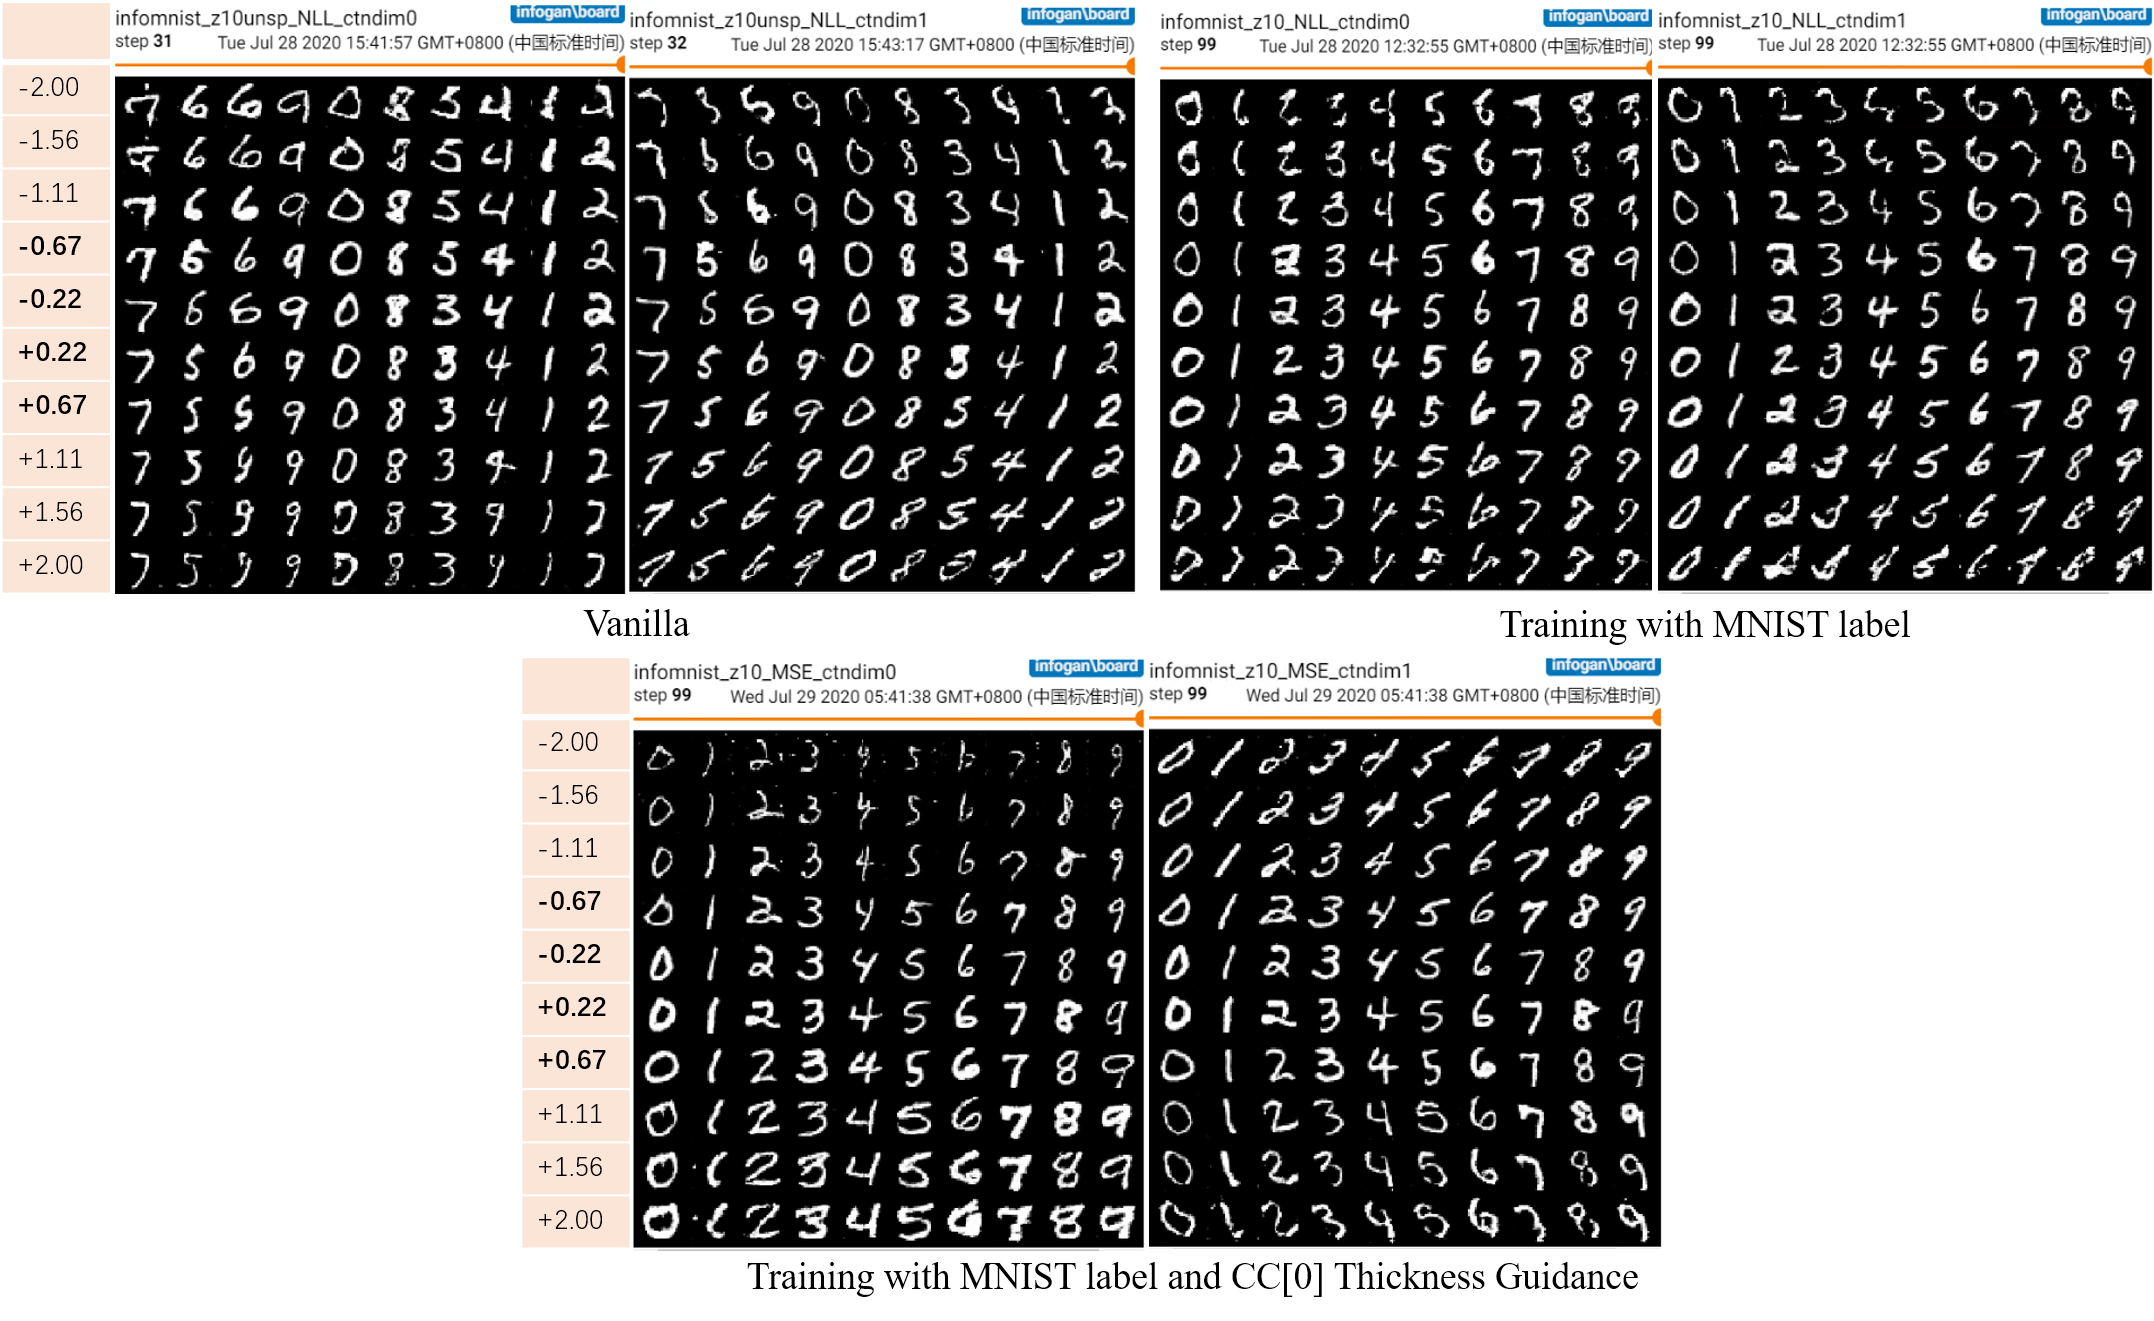
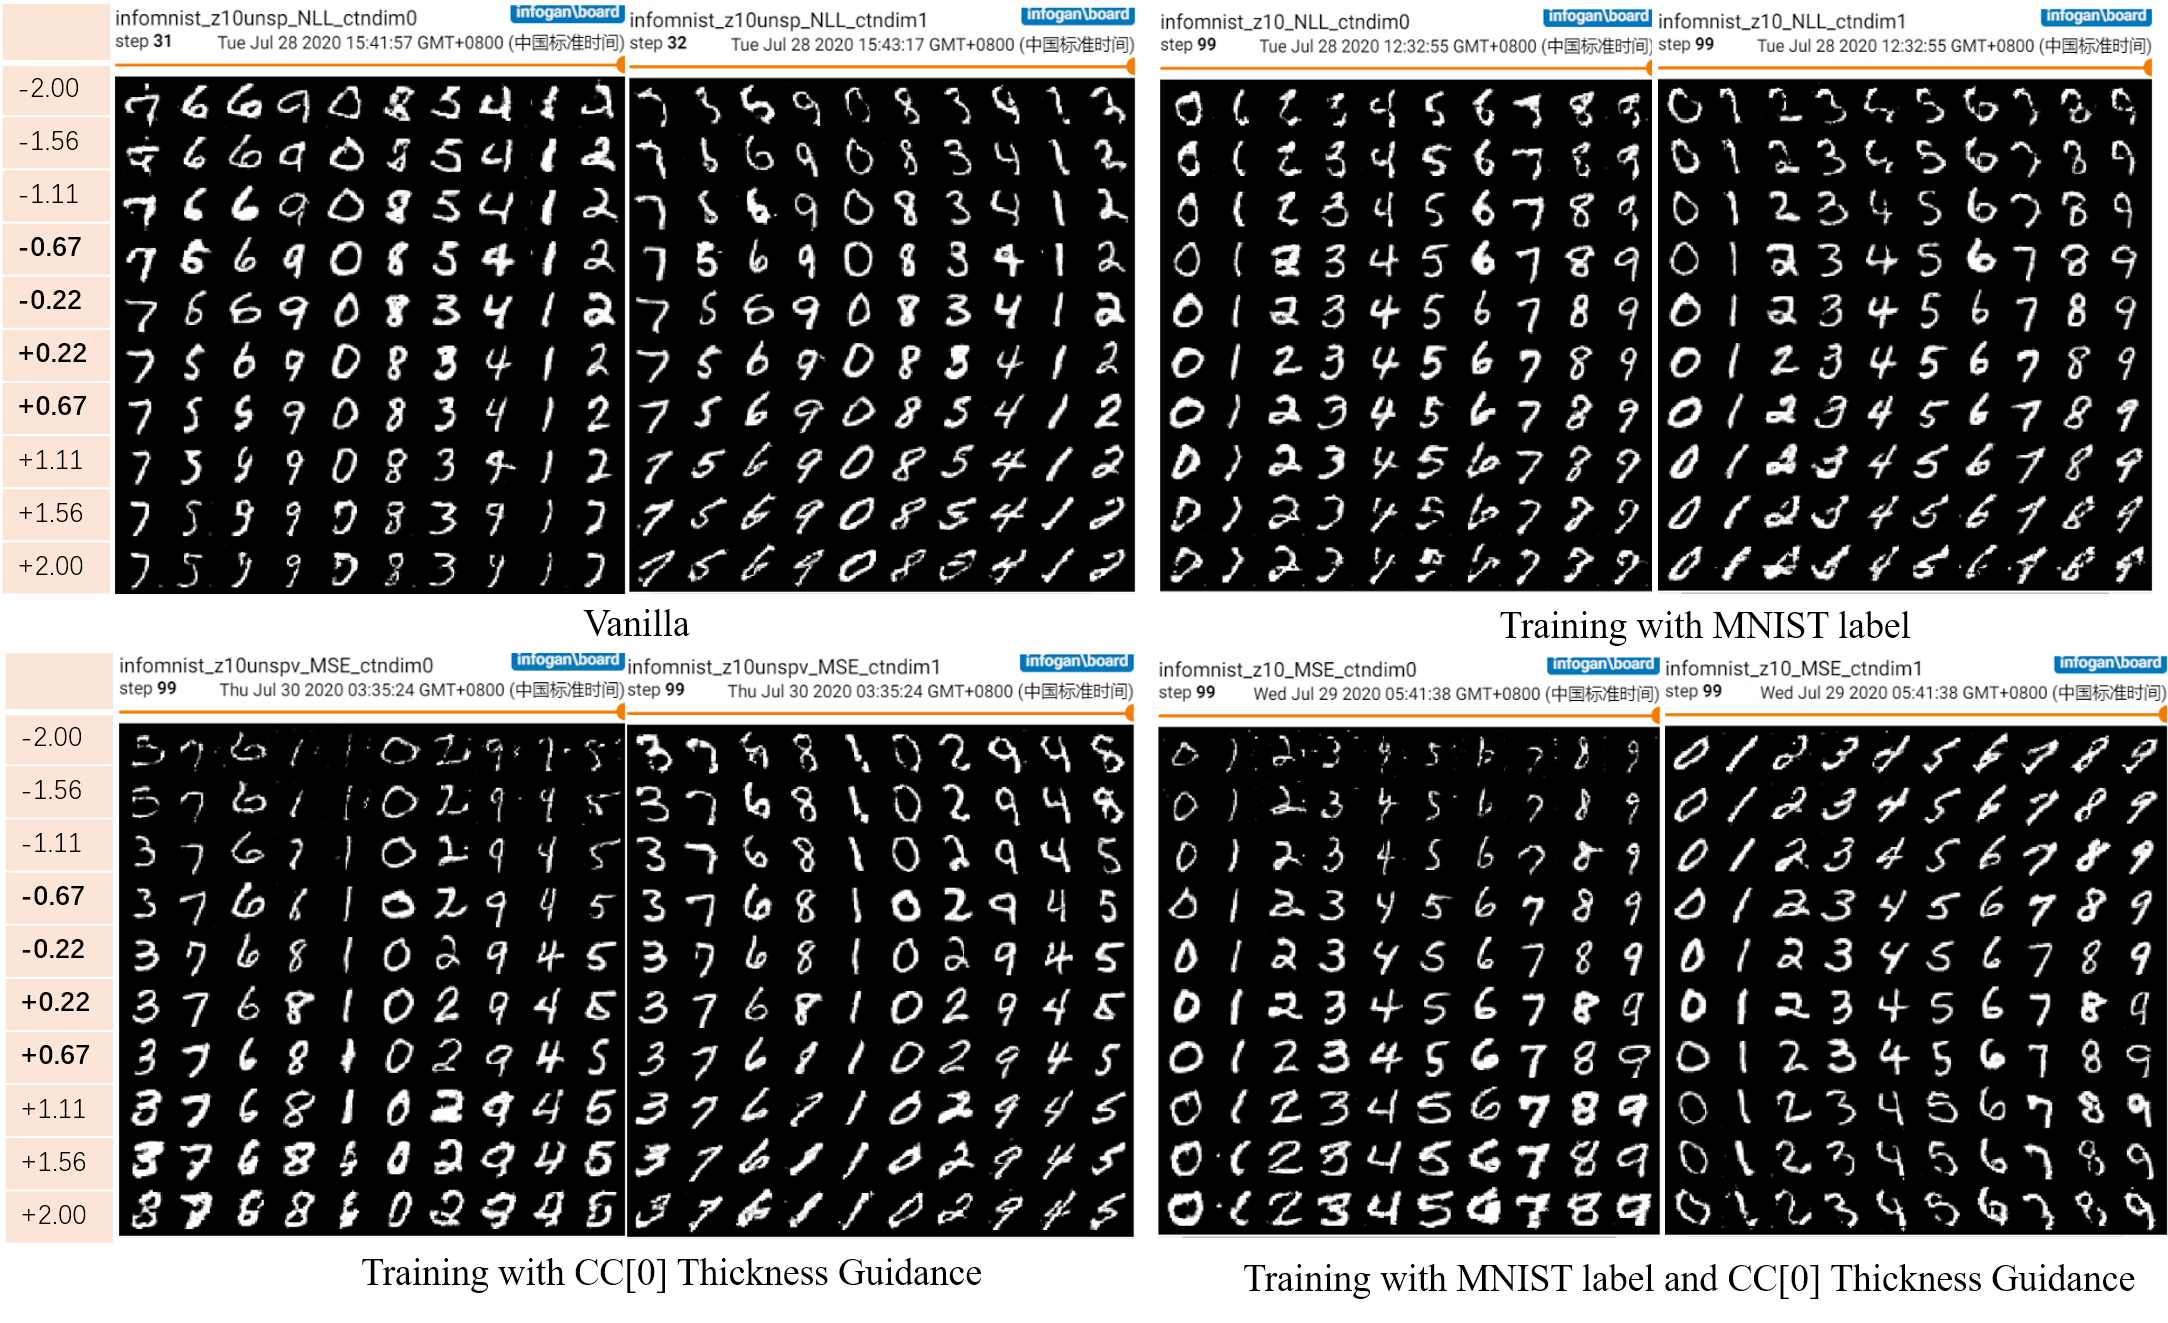
add wo labels exp

diff --git a/train_infogan.py b/train_infogan.py
@@ -56,12 +56,12 @@ class train_config(ut_cfg.config):
         super(train_config, self).__init__(pBs = 64, pWn = 2, p_force_cpu = False)
         self.path_save_mdroot = self.check_path_valid(os.path.join(ROOT, "outputs", "infogan"))
         localtime = time.localtime(time.time())
-        self.path_save_mdid = "infomnist_z10_MSE" + "%02d%02d"%(localtime.tm_mon, localtime.tm_mday)
+        self.path_save_mdid = "infomnist_z10unspv_MSE" + "%02d%02d"%(localtime.tm_mon, localtime.tm_mday)
 
         self.save_epoch_begin = 20
         self.save_epoch_interval = 10
 
-        self.log_epoch_txt = open(os.path.join(self.path_save_mdroot, "infomnist_z10_MSE_epoch_loss_log.txt"), 'a+')
+        self.log_epoch_txt = open(os.path.join(self.path_save_mdroot, "infomnist_z10unspv_MSE_epoch_loss_log.txt"), 'a+')
         self.writer = SummaryWriter(log_dir=os.path.join(self.path_save_mdroot, "board"))
 
         self.height_in = 28
@@ -185,8 +185,8 @@ class train_config(ut_cfg.config):
         view_x_Tsor1 = torchvision.utils.make_grid(tensor = imgF_Tsor_bacth1, nrow= w_layout)
         view_x_Tsor2 = torchvision.utils.make_grid(tensor = imgF_Tsor_bacth2, nrow= w_layout)
 
-        self.writer.add_image("infomnist_z10_MSE_ctndim0", view_x_Tsor1, p_epoch)
-        self.writer.add_image("infomnist_z10_MSE_ctndim1", view_x_Tsor2, p_epoch)
+        self.writer.add_image("infomnist_z10unspv_MSE_ctndim0", view_x_Tsor1, p_epoch)
+        self.writer.add_image("infomnist_z10unspv_MSE_ctndim1", view_x_Tsor2, p_epoch)
 
         # judge_Tsor_batch_i = pnetD(imgF_batch_i)
 
@@ -354,7 +354,6 @@ if __name__ == "__main__":
                 continuous_batch_i[:,0] = (continuous_batch_i[:,0] + 1) * (aux_thickness_batch_i + 0.55) - 1
                 
                 lossINFO =  discrete_criterion(predDsctF_batch_i, labelF_batch_i) + \
-                    discrete_criterion(predDsctR_batch_i, labelR_batch_i) + \
                     2 * gm_lambda_con * continuous_criterion(continuous_batch_i, predCtnFmu_batch_i)
                 # # discrete_criterion(predDsctR_batch_i, labelR_batch_i) + \
                 #
@@ -375,7 +374,7 @@ if __name__ == "__main__":
             gm_schedulerG.step(avgG_loss)
             gm_schedulerINFO.step(avgINFO_loss)
 
-            gm_cfg.log_in_board( "infomnist_z10_MSE loss", 
+            gm_cfg.log_in_board( "infomnist_z10unspv_MSE loss", 
                 {"d_loss": avgD_loss, 
                 "g_loss": avgG_loss, 
                 "info_loss": avgINFO_loss, 
